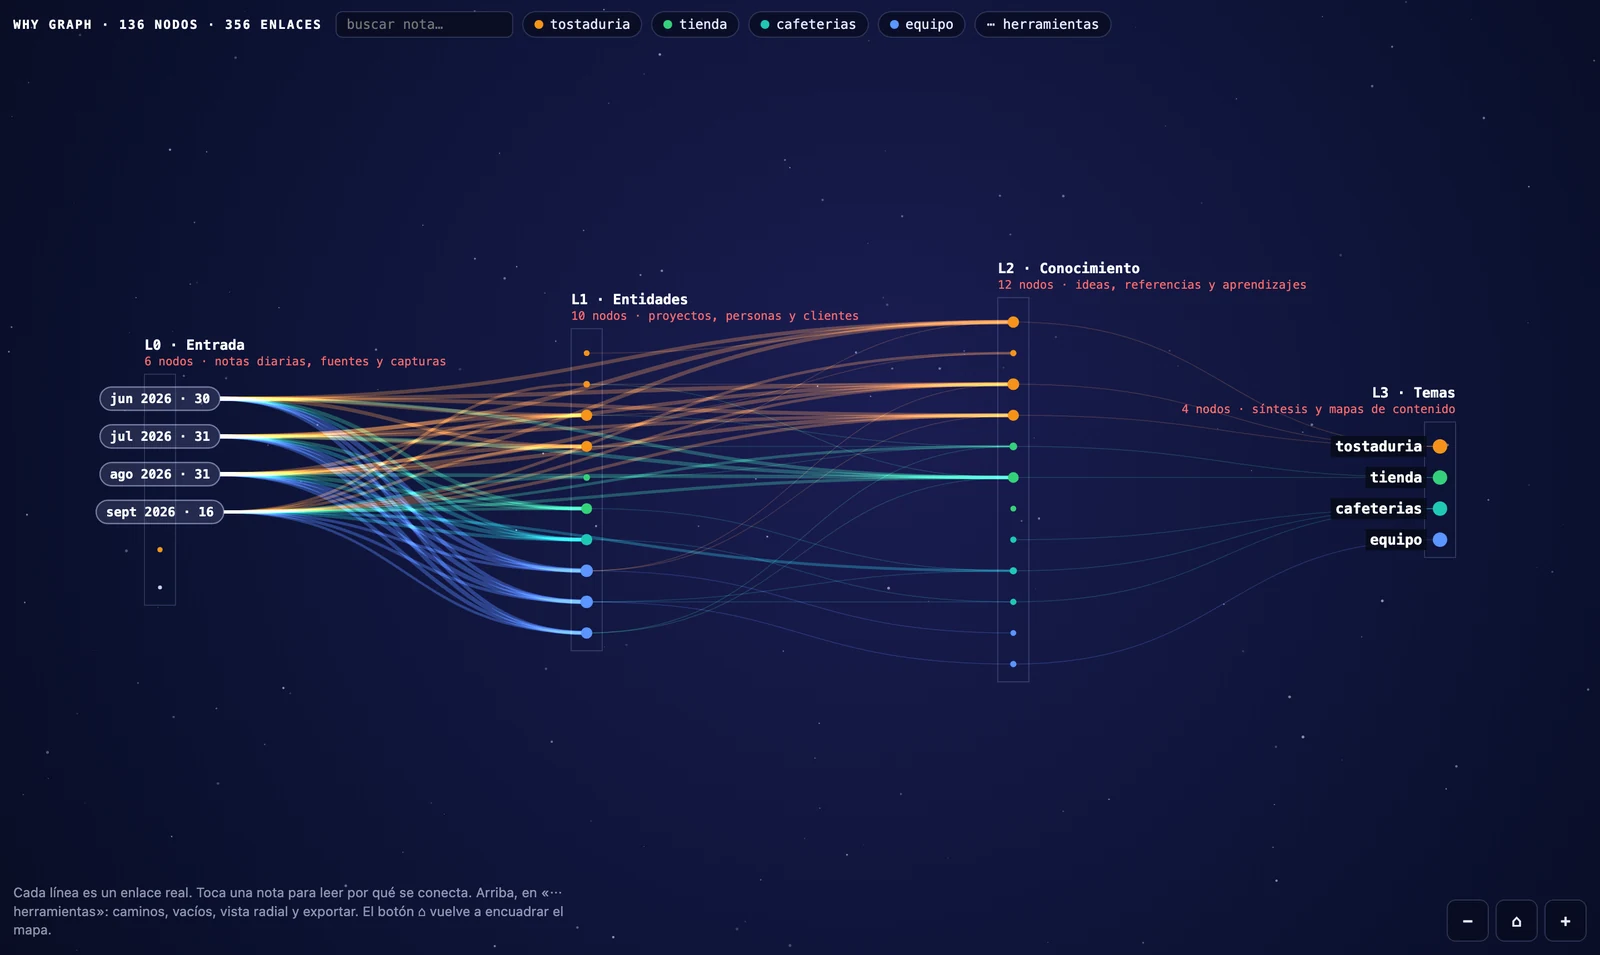
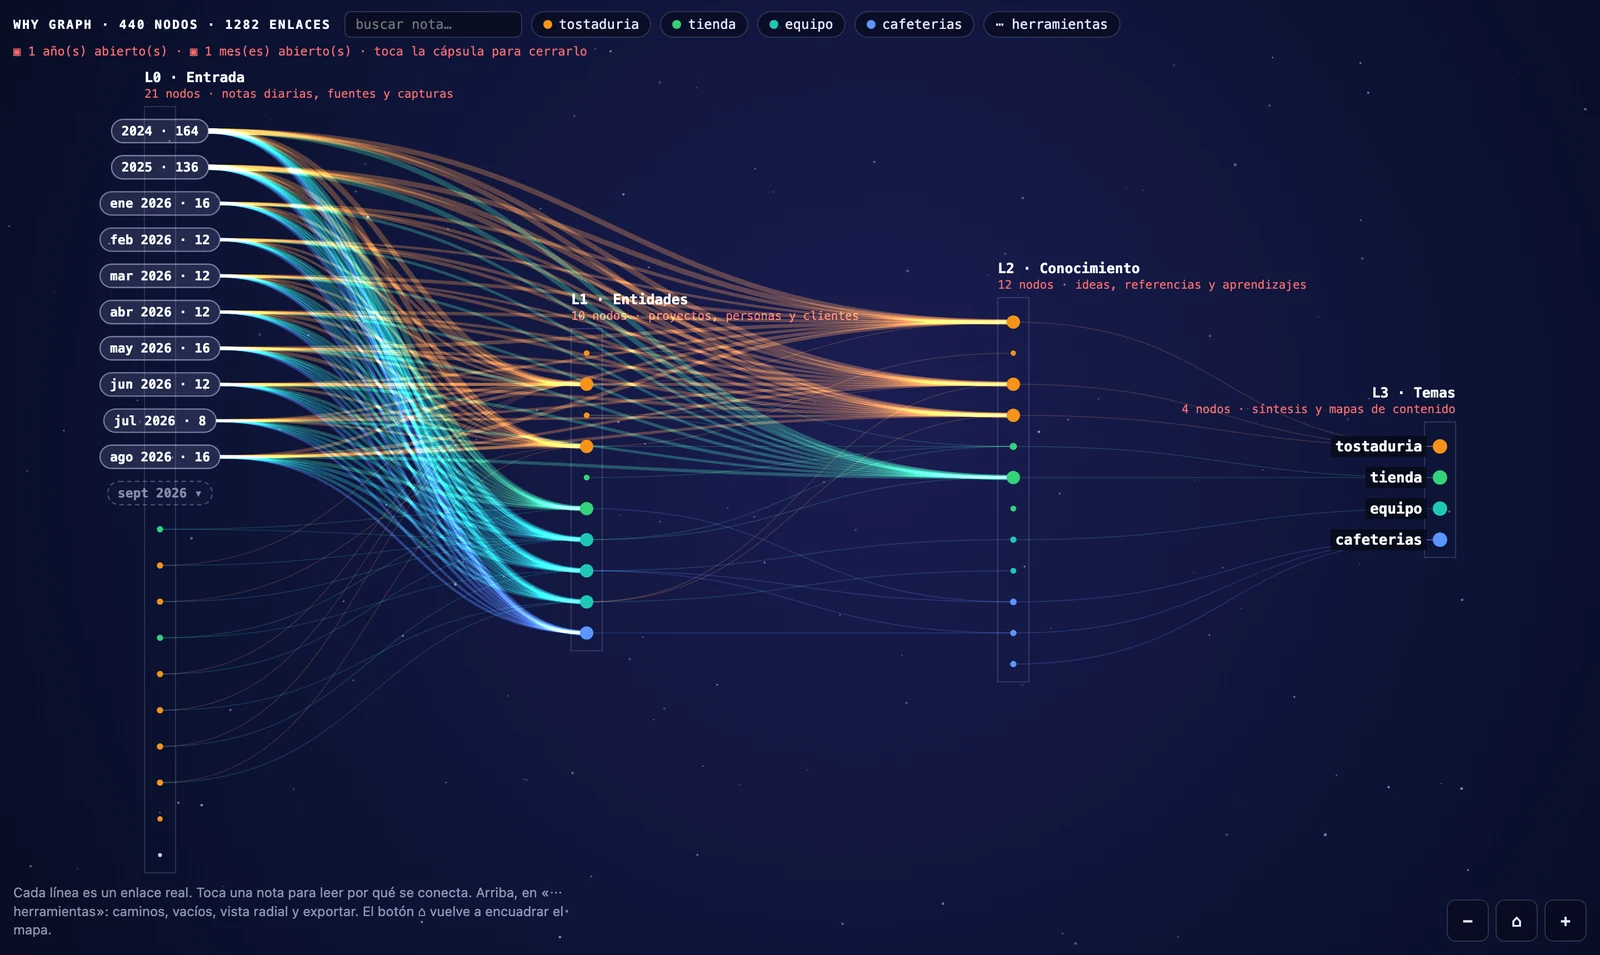
1.21.0 — el tiempo como acordeón: años, meses, días, y cómo volver
Felipe probó las cápsulas en su vault y encontró tres cosas. Las tres eran ciertas.

1. «Puedo abrir el mes pero no cerrarlo.» La cápsula desaparecía al abrirse y la
   única salida estaba enterrada en el menú. Ahora la cápsula del grupo abierto SE
   QUEDA, punteada y con un ▾, justo arriba de sus notas: es lo que se toca para
   cerrarlo. Y un clic simple abre y cierra, que es el gesto que cualquiera prueba.

2. «Pensé que ibas a agregar columnas de año.» Tenía razón para un vault viejo:
   con más de doce meses de notas fechadas, la entrada agrupa por AÑO, y el año
   abierto muestra sus meses. Tres niveles en una sola columna. Verificado con un
   vault sintético de tres años: 412 notas de diario se leen como tres etiquetas.

3. «Agrupas los temas por mes individualmente, y se desagrega el resto del mes.»
   Colapsar un tema le robaba sus notas al mes y la cuenta de la cápsula bajaba sin
   explicación. En la primera capa manda el tiempo; el tema manda en las otras.

Y el texto rojo traslapado que mostró su captura: la barra de temas pasa de una
fila a tres según el ancho, y el mapa medía el margen de arriba ANTES de que la
barra creciera. Ahora la barra se pinta primero y se vuelve a medir cuando cambia.
De paso, cuando una columna no cabe, el centrado la empujaba arriba de su margen y
los títulos quedaban detrás de la barra: el gap ya nunca pide más aire del que hay.

95 comprobaciones (14 nuevas del acordeón) y la imagen del README muestra los tres
[…]

Changed region(s): [[0.0, 0.0, 0.6875, 0.6681], [0.8125, 0.5162, 0.875, 0.577]]

diff --git a/src/main.js b/src/main.js
@@ -241,8 +241,9 @@ const EN = {
   'Abrir el mes': 'Open the month',
   'Agrupar la entrada por mes': 'Group the input layer by month',
   'No agrupar la entrada por mes': "Don't group the input layer by month",
-  'Volver a cerrar los meses': 'Close the months again',
-  '▣ {0} mes(es) abierto(s)': '▣ {0} month(s) open',
+  '▣ {0} año(s) abierto(s)': '▣ {0} year(s) open',
+  '▣ {0} mes(es) abierto(s) · toca la cápsula para cerrarlo': '▣ {0} month(s) open · tap the capsule to close',
+  'Volver a cerrar el tiempo': 'Close the timeline again',
   'Agrupar la primera capa por mes': 'Group the first layer by month',
   'La capa de entrada crece una nota por día. Desde esta cantidad de notas fechadas, se agrupan por mes y cada mes se abre con un toque sostenido. 0 = nunca agrupar.':
     'The input layer grows by one note a day. From this many dated notes on, they group by month, and each month opens with a long press. 0 = never group.',
@@ -593,7 +594,7 @@ class VistaMapa extends ItemView {
     this.vista = { x: 0, y: 0, k: 1 }; this.foco = null; this.sobre = null; this.solo = null; this.filtro = '';
     this.todas = false; this.conEnlace = false; this.salud = false; this.reciente = 0;
     this.camino = null; this.eligiendo = null;
-    this.colapsados = new Set(); this.forzados = new Set(); this.mesesAbiertos = new Set(); this.forzarMeses = null; this.radial = false; this.vacios = false; this.listaVacios = []; this.sugerencia = null;
+    this.colapsados = new Set(); this.forzados = new Set(); this.mesesAbiertos = new Set(); this.aniosAbiertos = new Set(); this.forzarMeses = null; this.radial = false; this.vacios = false; this.listaVacios = []; this.sugerencia = null;
     this.punteros = new Map(); this.D = { nodos: [], aristas: [], capas: [], temas: {} };
     this.N = []; this.E = [];
   }
@@ -726,9 +727,19 @@ class VistaMapa extends ItemView {
     this.marca.setText(T('{0} · {1} nodos · {2} enlaces', NOMBRE, this.D.nodos.length, this.D.aristas.length) + (conEnlaces ? T(' · {0} con enlaces', conEnlaces) : ''));
     if (this.solo && !this.D.temas[this.solo]) this.solo = null;
     if (this.vacios) this.listaVacios = this.calcularVacios();
+    this.pintarChips(); this.pintarEstado();   // primero la barra: su alto define el margen de arriba
     this.rehacer();
     if (this.foco && !this.porId[this.foco]) { this.foco = null; this.abrirPanel(null); }
+  }
+
+  // La barra de temas puede pasar de una fila a tres y empujar los títulos de las capas. Cada
+  // vez que cambia, el mapa se vuelve a medir: si no, las capas quedan detrás de la barra.
+  refrescarBarra() {
+    const antes = this.altoBarra || 0;
     this.pintarChips(); this.pintarEstado();
+    const ahora = this.barra ? this.barra.getBoundingClientRect().height : 0;
+    this.altoBarra = ahora;
+    if (Math.abs(ahora - antes) > 2) { this.medir(); this.pedir(); }
   }
 
   // Grafo efectivo: temas colapsados en supernodos y sus enlaces agrupados en superenlaces.
@@ -744,15 +755,29 @@ class VistaMapa extends ItemView {
     const fechadas = this.D.nodos.filter((n) => n.capa === 0 && n.mes).length;
     const umbral = Number(this.plugin.ajustes.agruparMesesDesde ?? 24);
     this.agrupaMeses = this.forzarMeses === null ? umbral > 0 && fechadas >= umbral : !!this.forzarMeses;
-    const mesDeNodo = (mes) => {
-      const id = 'mes:' + mes;
-      if (!virtuales[id]) virtuales[id] = { id, capa: 0, titulo: etiquetaMes(mes), mes, esMes: true, tema: null, propio: false, virtual: true, ruta: '', grado: 0, sinMotivo: 0 };
+    const capsula = (id, titulo, extra) => {
+      if (!virtuales[id]) virtuales[id] = Object.assign({ id, capa: 0, titulo, esMes: true, tema: null, propio: false, virtual: true, ruta: '', grado: 0, sinMotivo: 0 }, extra);
       return id;
+    };
+    // El acordeón del tiempo: con más de un año de notas fechadas se agrupa por AÑO, y el año
+    // abierto muestra sus meses. La cápsula del grupo abierto NO desaparece: es lo que se toca
+    // para volver a cerrarlo.
+    const meses = new Set(this.D.nodos.filter((n) => n.capa === 0 && n.mes).map((n) => n.mes));
+    this.porAnio = meses.size > 12;
+    const grupoDe = (n) => {
+      if (!this.agrupaMeses || n.capa !== 0 || !n.mes) return null;
+      const anio = n.mes.slice(0, 4);
+      if (this.porAnio && !this.aniosAbiertos.has(anio)) return capsula('anio:' + anio, anio, { anio, esAnio: true });
+      if (!this.mesesAbiertos.has(n.mes)) return capsula('mes:' + n.mes, etiquetaMes(n.mes), { mes: n.mes });
+      return capsula('mes:' + n.mes, etiquetaMes(n.mes), { mes: n.mes, abierta: true });
     };
     const N = [];
     for (const n of this.D.nodos) {
-      if (n.tema && col.has(n.tema)) { const h = hubDe(n.tema); this.rep[n.id] = h; if (n.id !== h) continue; }
-      else if (this.agrupaMeses && n.capa === 0 && n.mes && !this.mesesAbiertos.has(n.mes)) { this.rep[n.id] = mesDeNodo(n.mes); continue; }
+      // En la entrada manda el tiempo: colapsar un tema no le puede robar notas a su mes, o la
+      // cuenta de la cápsula baja sin explicación y el mes queda a medias.
+      const g = grupoDe(n);
+      if (g) { this.rep[n.id] = g; if (!this.mesesAbiertos.has(n.mes) || this.porAnio && !this.aniosAbiertos.has(n.mes.slice(0, 4))) continue; this.rep[n.id] = n.id; }
+      else if (n.tema && col.has(n.tema)) { const h = hubDe(n.tema); this.rep[n.id] = h; if (n.id !== h) continue; }
       else this.rep[n.id] = n.id;
       N.push(n);
     }
@@ -779,9 +804,11 @@ class VistaMapa extends ItemView {
     N.forEach((n) => { if (n.agrupados || n.virtual) n.gradoEf = this.ady[n.id].length; });
     const orden = Object.fromEntries(Object.keys(this.D.temas).map((t, i) => [t, i]));
     const posBase = new Map(this.D.nodos.map((x, i) => [x, i]));
+    // La entrada se ordena por tiempo y cada cápsula queda justo arriba de sus notas, como un
+    // acordeón. Lo que no tiene fecha (las fuentes citadas) va al final.
+    const clave = (x) => x.anio ? x.anio + '-00' : (x.mes || '9999-99');
     this.N = N.sort((p, q) => p.capa - q.capa
-      || (q.esMes ? 1 : 0) - (p.esMes ? 1 : 0)                       // las cápsulas de mes, primero
-      || (p.esMes && q.esMes ? p.mes.localeCompare(q.mes) : 0)       // y entre ellas, en orden de tiempo
+      || (p.capa === 0 ? clave(p).localeCompare(clave(q)) || (q.esMes ? 1 : 0) - (p.esMes ? 1 : 0) || String(p.titulo).localeCompare(String(q.titulo)) : 0)
       || (orden[p.tema] ?? 99) - (orden[q.tema] ?? 99)
       || (posBase.get(p) ?? 0) - (posBase.get(q) ?? 0));
     // Revelado progresivo: cada capa muestra sus notas más conectadas; el resto se trae buscando o tocando.
@@ -792,7 +819,7 @@ class VistaMapa extends ItemView {
       const rango = col.slice().sort((a, b) => (this.ady[b.id]?.length || 0) - (this.ady[a.id]?.length || 0));
       const visibles = new Set(rango.slice(0, max).map((x) => x.id));
       let ocultas = 0;
-      for (const x of col) { x.oculto = !visibles.has(x.id) && !this.forzados.has(x.id) && !x.agrupados && !x.virtual; if (x.oculto) ocultas++; }
+      for (const x of col) { x.oculto = !visibles.has(x.id) && !this.forzados.has(x.id) && !x.agrupados && !x.virtual && !x.esMes; if (x.oculto) ocultas++; }
       this.ocultas[capa] = ocultas;
     });
     if (this.foco && !this.porId[this.foco]) this.foco = this.rep[this.foco] || null;
@@ -843,7 +870,8 @@ class VistaMapa extends ItemView {
     const t = [];
     if (this.radial) t.push(this.foco ? T('◎ radial') : T('◎ radial: toca una nota'));
     if (this.colapsados.size) t.push(T('◉ {0} tema(s) colapsado(s)', this.colapsados.size));
-    if (this.mesesAbiertos.size) t.push(T('▣ {0} mes(es) abierto(s)', this.mesesAbiertos.size));
+    if (this.aniosAbiertos.size) t.push(T('▣ {0} año(s) abierto(s)', this.aniosAbiertos.size));
+    if (this.mesesAbiertos.size) t.push(T('▣ {0} mes(es) abierto(s) · toca la cápsula para cerrarlo', this.mesesAbiertos.size));
     if (this.vacios) t.push(T('⌁ vacíos'));
     if (this.salud) t.push(T('❤ salud'));
     if (this.reciente) t.push(T('◷ últimos {0} días', this.reciente));
@@ -852,11 +880,18 @@ class VistaMapa extends ItemView {
     if (this.eligiendo) t.push(this.eligiendo.desde ? T('→ toca la nota de destino') : T('→ toca la nota de origen'));
     this.estado.setText(t.join(' · '));
   }
-  alternarMes(mes) {
-    this.mesesAbiertos.has(mes) ? this.mesesAbiertos.delete(mes) : this.mesesAbiertos.add(mes);
+  // Un clic en la cápsula la abre o la cierra. La cápsula del grupo abierto sigue dibujada
+  // justo arriba de sus notas: sin eso se puede abrir un mes y no hay cómo cerrarlo.
+  alternarTiempo(n) {
+    const set = n.esAnio ? this.aniosAbiertos : this.mesesAbiertos, clave = n.esAnio ? n.anio : n.mes;
+    if (set.has(clave)) {
+      set.delete(clave);
+      if (n.esAnio) [...this.mesesAbiertos].filter((m) => m.startsWith(clave)).forEach((m) => this.mesesAbiertos.delete(m));
+    } else set.add(clave);
     this.camino = null; this.sugerencia = null; this.foco = null; this.abrirPanel(null);
-    this.rehacer(); this.pintarEstado();
+    this.rehacer(); this.refrescarBarra();
   }
+  alternarMes(mes) { this.alternarTiempo({ mes }); }
   alternarColapso(t) {
     this.colapsados.has(t) ? this.colapsados.delete(t) : this.colapsados.add(t);
     this.camino = null; this.sugerencia = null;
@@ -904,8 +939,8 @@ class VistaMapa extends ItemView {
       this.forzarMeses = !this.agrupaMeses; this.mesesAbiertos.clear(); this.foco = null; this.abrirPanel(null);
       this.rehacer(); this.pintarEstado();
     }));
-    if (this.mesesAbiertos.size) m.addItem((i) => i.setTitle(T('Volver a cerrar los meses')).setIcon('calendar-minus').onClick(() => {
-      this.mesesAbiertos.clear(); this.rehacer(); this.pintarEstado();
+    if (this.mesesAbiertos.size || this.aniosAbiertos.size) m.addItem((i) => i.setTitle(T('Volver a cerrar el tiempo')).setIcon('calendar-minus').onClick(() => {
+      this.mesesAbiertos.clear(); this.aniosAbiertos.clear(); this.rehacer(); this.refrescarBarra();
     }));
     if (this.colapsados.size) m.addItem((i) => i.setTitle(T('Expandir todos')).setIcon('expand').onClick(() => { this.colapsados.clear(); this.rehacer(); this.pintarChips(); this.pintarEstado(); }));
     m.addSeparator();
@@ -941,9 +976,13 @@ class VistaMapa extends ItemView {
     const margen = this.angosto() ? 70 : Math.max(120, this.W * 0.1), paso = (this.anchoLogico - reserva - 2 * margen) / (n - 1);
     this.capas = this.D.capas.map((c, i) => {
       const col = this.N.filter((x) => x.capa === i && !x.oculto), alto = Hl - arriba - abajo;
-      const minimo = col.some((x) => x.esMes) ? 34 : 0;            // una cápsula mide más que un punto
-      const gap = Math.max(minimo, Math.min(alto / Math.max(col.length, 1), this.angosto() ? 46 : 28));
-      const y0 = arriba + (alto - gap * (col.length - 1)) / 2;
+      // Una cápsula mide más que un punto y pide más aire, pero nunca más del que hay: si se
+      // fuerza, el centrado empuja la columna ARRIBA de su margen y los títulos quedan detrás
+      // de la barra de temas.
+      const minimo = col.some((x) => x.esMes) ? 34 : 0;
+      const cabe = alto / Math.max(col.length - 1, 1);
+      const gap = Math.min(Math.max(minimo, this.angosto() ? 46 : 28), Math.max(cabe, 9));
+      const y0 = Math.max(arriba, arriba + (alto - gap * (col.length - 1)) / 2);
       col.forEach((x, j) => { x.x = margen + i * paso; x.y = y0 + j * gap; });
       return { x: margen + i * paso, n: col.length, y0: y0 - 22, y1: y0 + gap * Math.max(col.length - 1, 0) + 16, def: c };
     });
@@ -978,6 +1017,8 @@ class VistaMapa extends ItemView {
     v.x = cx - ((cx - v.x) * k) / v.k; v.y = cy - ((cy - v.y) * k) / v.k; v.k = k; this.pedir();
   }
   enfocar(id, centrar) {
+    const cap = this.porId?.[id];
+    if (cap && cap.esMes) return this.alternarTiempo(cap);
     let n = this.porId[id]; if (!n) return;
     if (n.oculto) { this.forzados.add(id); this.rehacer(); n = this.porId[id]; }
     this.foco = id; this.camino = null; this.sugerencia = null;
@@ -1141,16 +1182,17 @@ class VistaMapa extends ItemView {
       const activo = enCamino ? enCamino.has(n.id) : this.sugerencia ? enSug : (!nivel || n.id in nivel) && this.activo(n);
       if (n.esMes) { // un mes se dibuja como cápsula con su nombre: un punto grande no dice «mes»
         ctx.font = f(600, 11.5);
-        const etq = `${n.titulo} · ${n.agrupados}`;
+        const etq = n.abierta ? `${n.titulo} ▾` : `${n.titulo} · ${n.agrupados}`;
         const w = ctx.measureText(etq).width, alto = 21 / sk, pad = 9 / vista.k, rr = alto / 2;
         const bx = n.x - (w + pad * 2) / 2, by = n.y - alto / 2;
-        ctx.fillStyle = rgba('#C9D1FF', activo ? 0.13 : 0.05);
-        ctx.strokeStyle = rgba('#C9D1FF', activo ? 0.52 : 0.16);
+        ctx.fillStyle = rgba('#C9D1FF', n.abierta ? 0.02 : activo ? 0.13 : 0.05);
+        ctx.strokeStyle = rgba('#C9D1FF', n.abierta ? 0.3 : activo ? 0.52 : 0.16);
+        if (n.abierta) ctx.setLineDash([4 / vista.k, 3 / vista.k]);
         ctx.lineWidth = 1.2 / vista.k;
         ctx.beginPath();
         if (ctx.roundRect) ctx.roundRect(bx, by, w + pad * 2, alto, rr); else ctx.rect(bx, by, w + pad * 2, alto);
-        ctx.fill(); ctx.stroke();
-        ctx.fillStyle = activo ? '#FFFFFF' : 'rgba(230,234,255,.42)';
+        ctx.fill(); ctx.stroke(); ctx.setLineDash([]);
+        ctx.fillStyle = n.abierta ? 'rgba(230,234,255,.55)' : activo ? '#FFFFFF' : 'rgba(230,234,255,.42)';
         ctx.fillText(etq, bx + pad, n.y + 4 / sk);
         cajas.push({ x: bx - 3 / vista.k, y: by - 3 / vista.k, w: w + pad * 2 + 6 / vista.k, h: alto + 6 / vista.k });
         continue; // ni punto ni rótulo aparte: la cápsula ya los reemplaza
@@ -1222,7 +1264,7 @@ class VistaMapa extends ItemView {
       if (!t || t.movio || e.type === 'pointercancel') return;
       const [x, y] = local(e), n = this.nodoEn(x, y);
       if (this.eligiendo) return this.elegirCamino(n);
-      if (n && (Date.now() - t.t > 550) && n.esMes) return this.alternarMes(n.mes);
+      if (n && (Date.now() - t.t > 550) && n.esMes) return this.alternarTiempo(n);
       if (n && (Date.now() - t.t > 550) && n.tema && (n.agrupados || n.capa === this.D.capas.length - 1)) return this.alternarColapso(n.tema);
       this.camino = null; this.sugerencia = null;
       if (!n) { this.foco = null; this.abrirPanel(this.vacios ? 'vacios' : null); if (this.radial) { this.medir(); this.pintarEstado(); } this.pedir(); return; }

diff --git a/pruebas/mirador/mirador.html b/pruebas/mirador/mirador.html
@@ -177,6 +177,11 @@ window.exports = window.module.exports;
     const n = buscar(q.get('foco'));
     if (n) v.enfocar(n.id, true); else document.title = 'ERROR: no encuentro esa nota';
   }
+  // ?abrir=2026,2026-09 → abre esos años y meses del acordeón del tiempo
+  for (const clave of (q.get('abrir') || '').split(',').filter(Boolean)) {
+    const cap = v.N.find((x) => x.esMes && (x.anio === clave || x.mes === clave));
+    if (cap) v.alternarTiempo(cap);
+  }
   v.encuadrar(); v.dibujar();
   // segunda pasada: el panel cambia el ancho útil y el mapa se reencuadra
   await new Promise((r) => setTimeout(r, 120));

diff --git a/README.es.md b/README.es.md
@@ -73,9 +73,9 @@ se escriba una línea en tu nota. La versión interactiva del diagrama está en
   temas (vecinos comunes, densidad) y nombra los pares que deberían estar conectados y
   no lo están. En mi propio vault encontró dos temas con 0 enlaces donde se esperaban ~26.
 - **Aguanta un vault viejo.** La capa de entrada crece una nota por día: en un año son 365
-  puntos en fila. Las notas fechadas se agrupan en cápsulas de mes que se abren con un toque
-  sostenido, así un vault con cuatro meses de diario se lee como cuatro etiquetas y no como
-  108 puntos.
+  puntos en fila. Las notas fechadas se pliegan en un acordeón —**años, después meses,
+  después días**— así que tres años de diario se leen como tres etiquetas. Un clic abre la
+  cápsula y otro la cierra: la cápsula del grupo abierto se queda en su lugar, sobre sus notas.
 
   ![La capa de entrada agrupada en cápsulas de mes](docs/imagenes/06-meses.webp)
 

diff --git a/README.md b/README.md
@@ -74,8 +74,9 @@ open it in a browser.
   two topics (shared neighbours, density) and names the pairs that should be connected
   and are not. In my own vault it found two topics with 0 links where ~26 were expected.
 - **It survives a long vault.** The input layer grows by one note a day; after a year that
-  is 365 dots in a row. Dated notes group into month capsules that open with a long press,
-  so a vault with four months of daily notes reads as four labels instead of 108 dots.
+  is 365 dots in a row. Dated notes fold into an accordion — **years, then months, then
+  days** — so three years of daily notes read as three labels. Click a capsule to open it,
+  click it again to close: the capsule of an open group stays in place, above its notes.
 
   ![The input layer grouped into month capsules](docs/imagenes/06-meses.webp)
 
